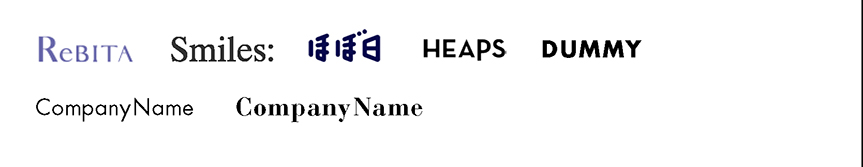
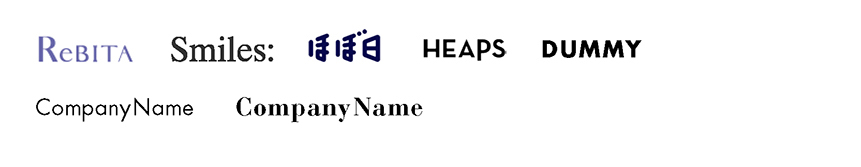
style change

diff --git a/scss/_globalNavBox.scss b/scss/_globalNavBox.scss
@@ -19,7 +19,7 @@ $titleBox-margin-top: 41px;
 
 .globalNavBox__plartLogo{  // あとでやる
   position:absolute;
-    top: 36px;
+    top: 26px;
     right: 26px;
 
   width: 109px;
@@ -31,20 +31,19 @@ $titleBox-margin-top: 41px;
 .globalNavBox__titleBox{
   margin-left:$titleBox-margin-left - $box-padding;
   margin-top:$titleBox-margin-top - $box-padding;
-  
+
 }
 
 .globalNavBox__siteDesc{
-  line-height:1; 
+  line-height:1;
   margin-bottom:18px;
 
 }
 
 .globalNavBox__siteTitle{
-  line-height:1; 
+  line-height:1;
 
   margin:0px;
-  
+
 
 }
-

diff --git a/scss/_categoryBox.scss b/scss/_categoryBox.scss
@@ -13,7 +13,7 @@ $categoryBox-height:160px;
 
   position:absolute;
     bottom:-$categoryBox-height/2;
-    left:2em;
+    left:36px;
     z-index:10;
 
   width:512px;
@@ -85,4 +85,3 @@ $categoryBox-height:160px;
     }
   }
 }
-

diff --git a/scss/style.scss b/scss/style.scss
@@ -83,7 +83,6 @@ body{
 
 .partnersBox{
   height:$partnersHeight;
-  background: red;
 
 }
 
@@ -143,4 +142,3 @@ input[type="search"].search-field {
 
 /////////////////  plugin /////////////////
 @import "slick-theme";
-

diff --git a/scss/_globalNav.scss b/scss/_globalNav.scss
@@ -12,7 +12,8 @@
 .globalNav__item{
 
   display:inline;
-  margin-left:1em;
+  margin-left:1.2em;
+  letter-spacing: 1px;
 
 
   line-height:1;
@@ -20,5 +21,3 @@
   border-bottom:1px solid $color-plart-gray;
 
 }
-
-
